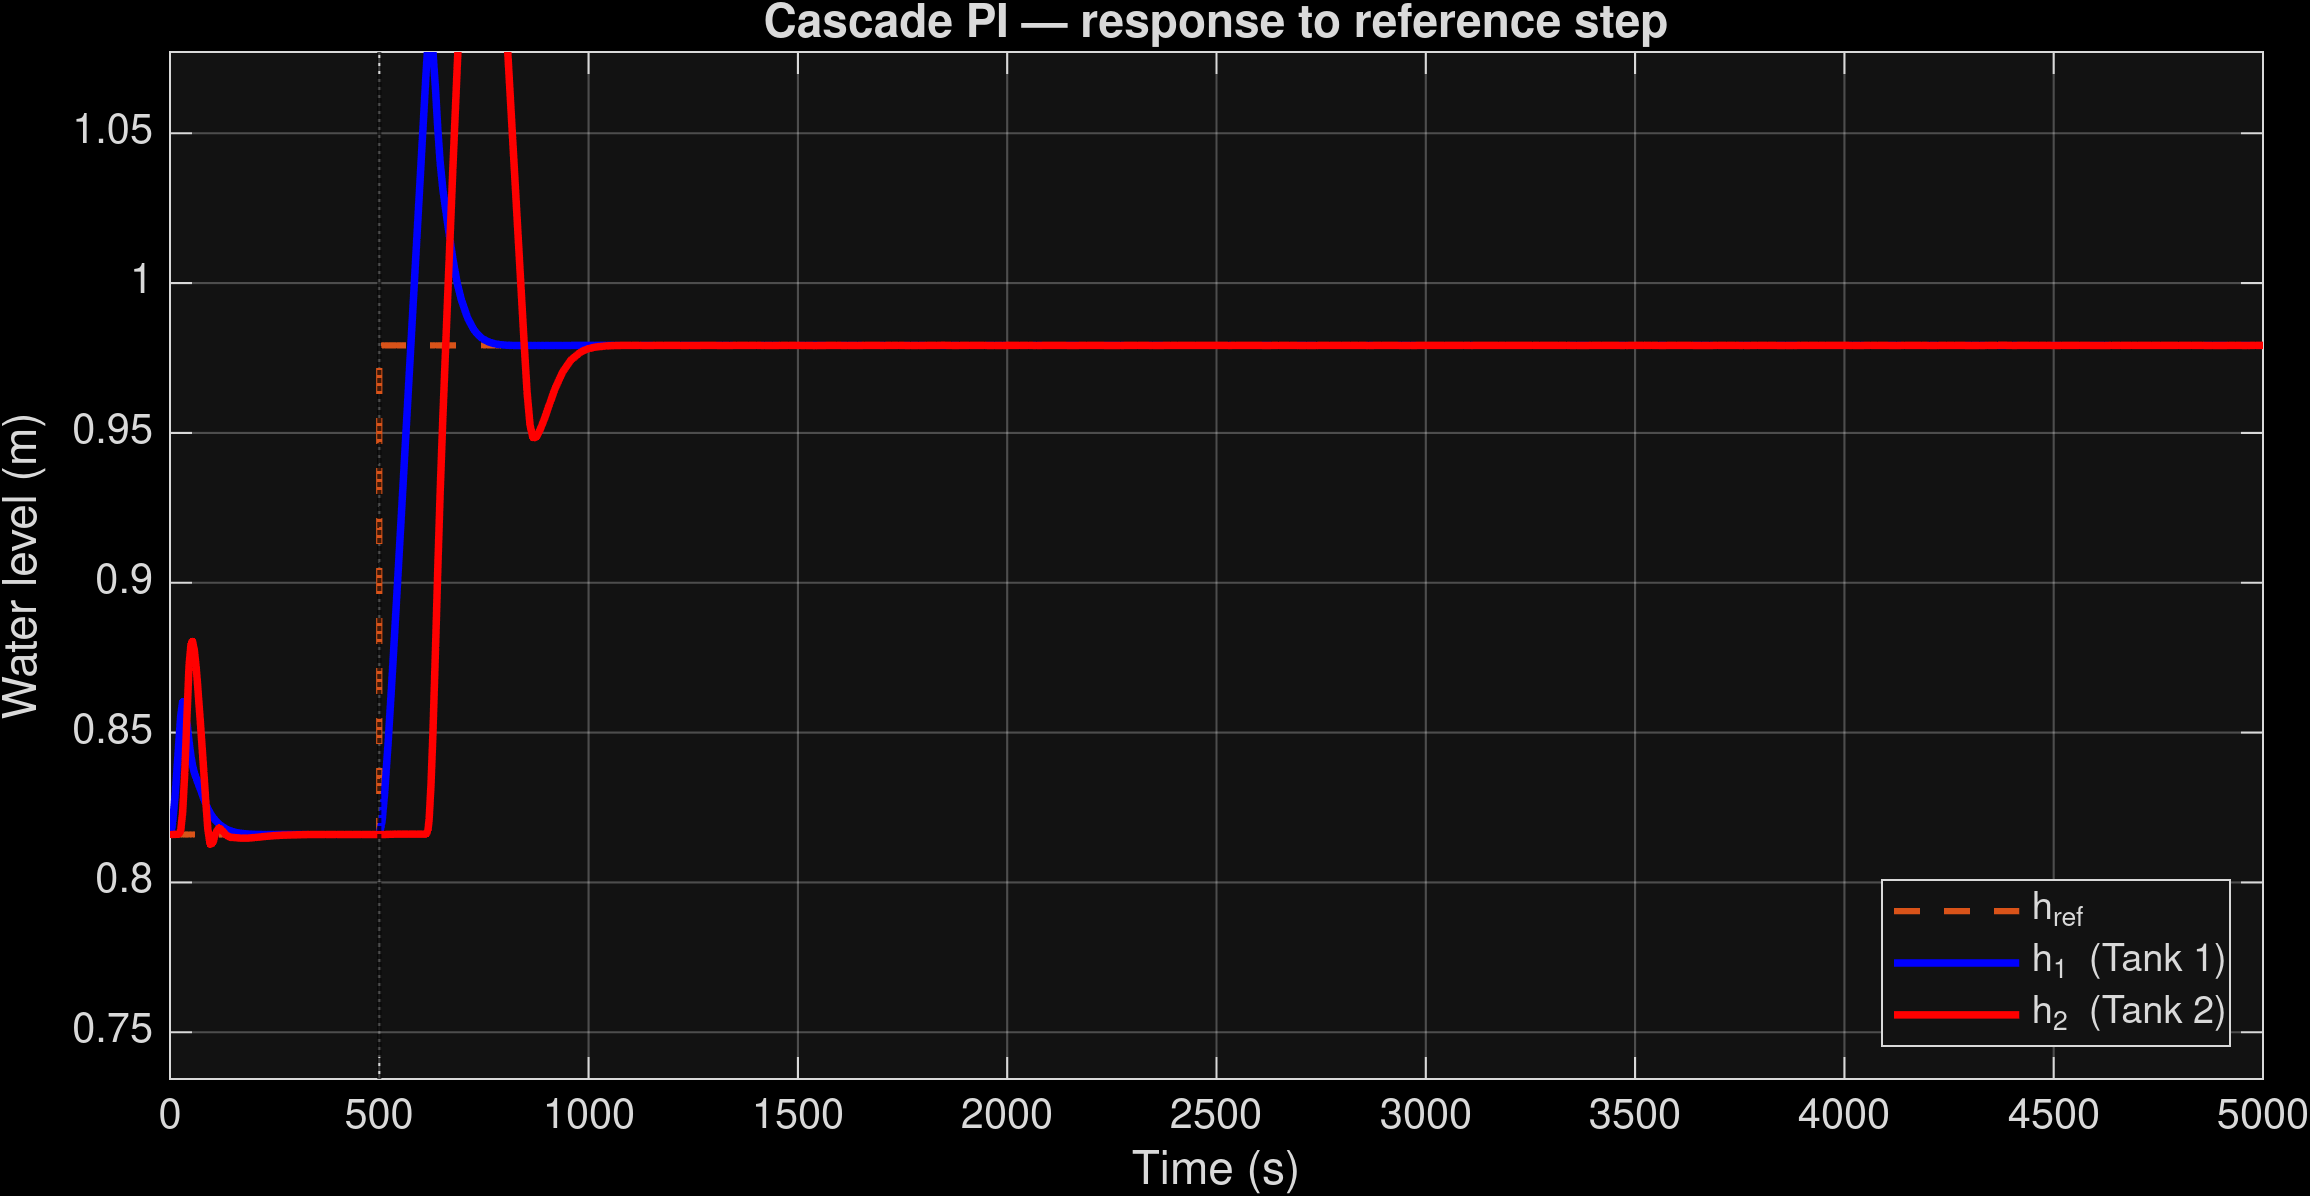
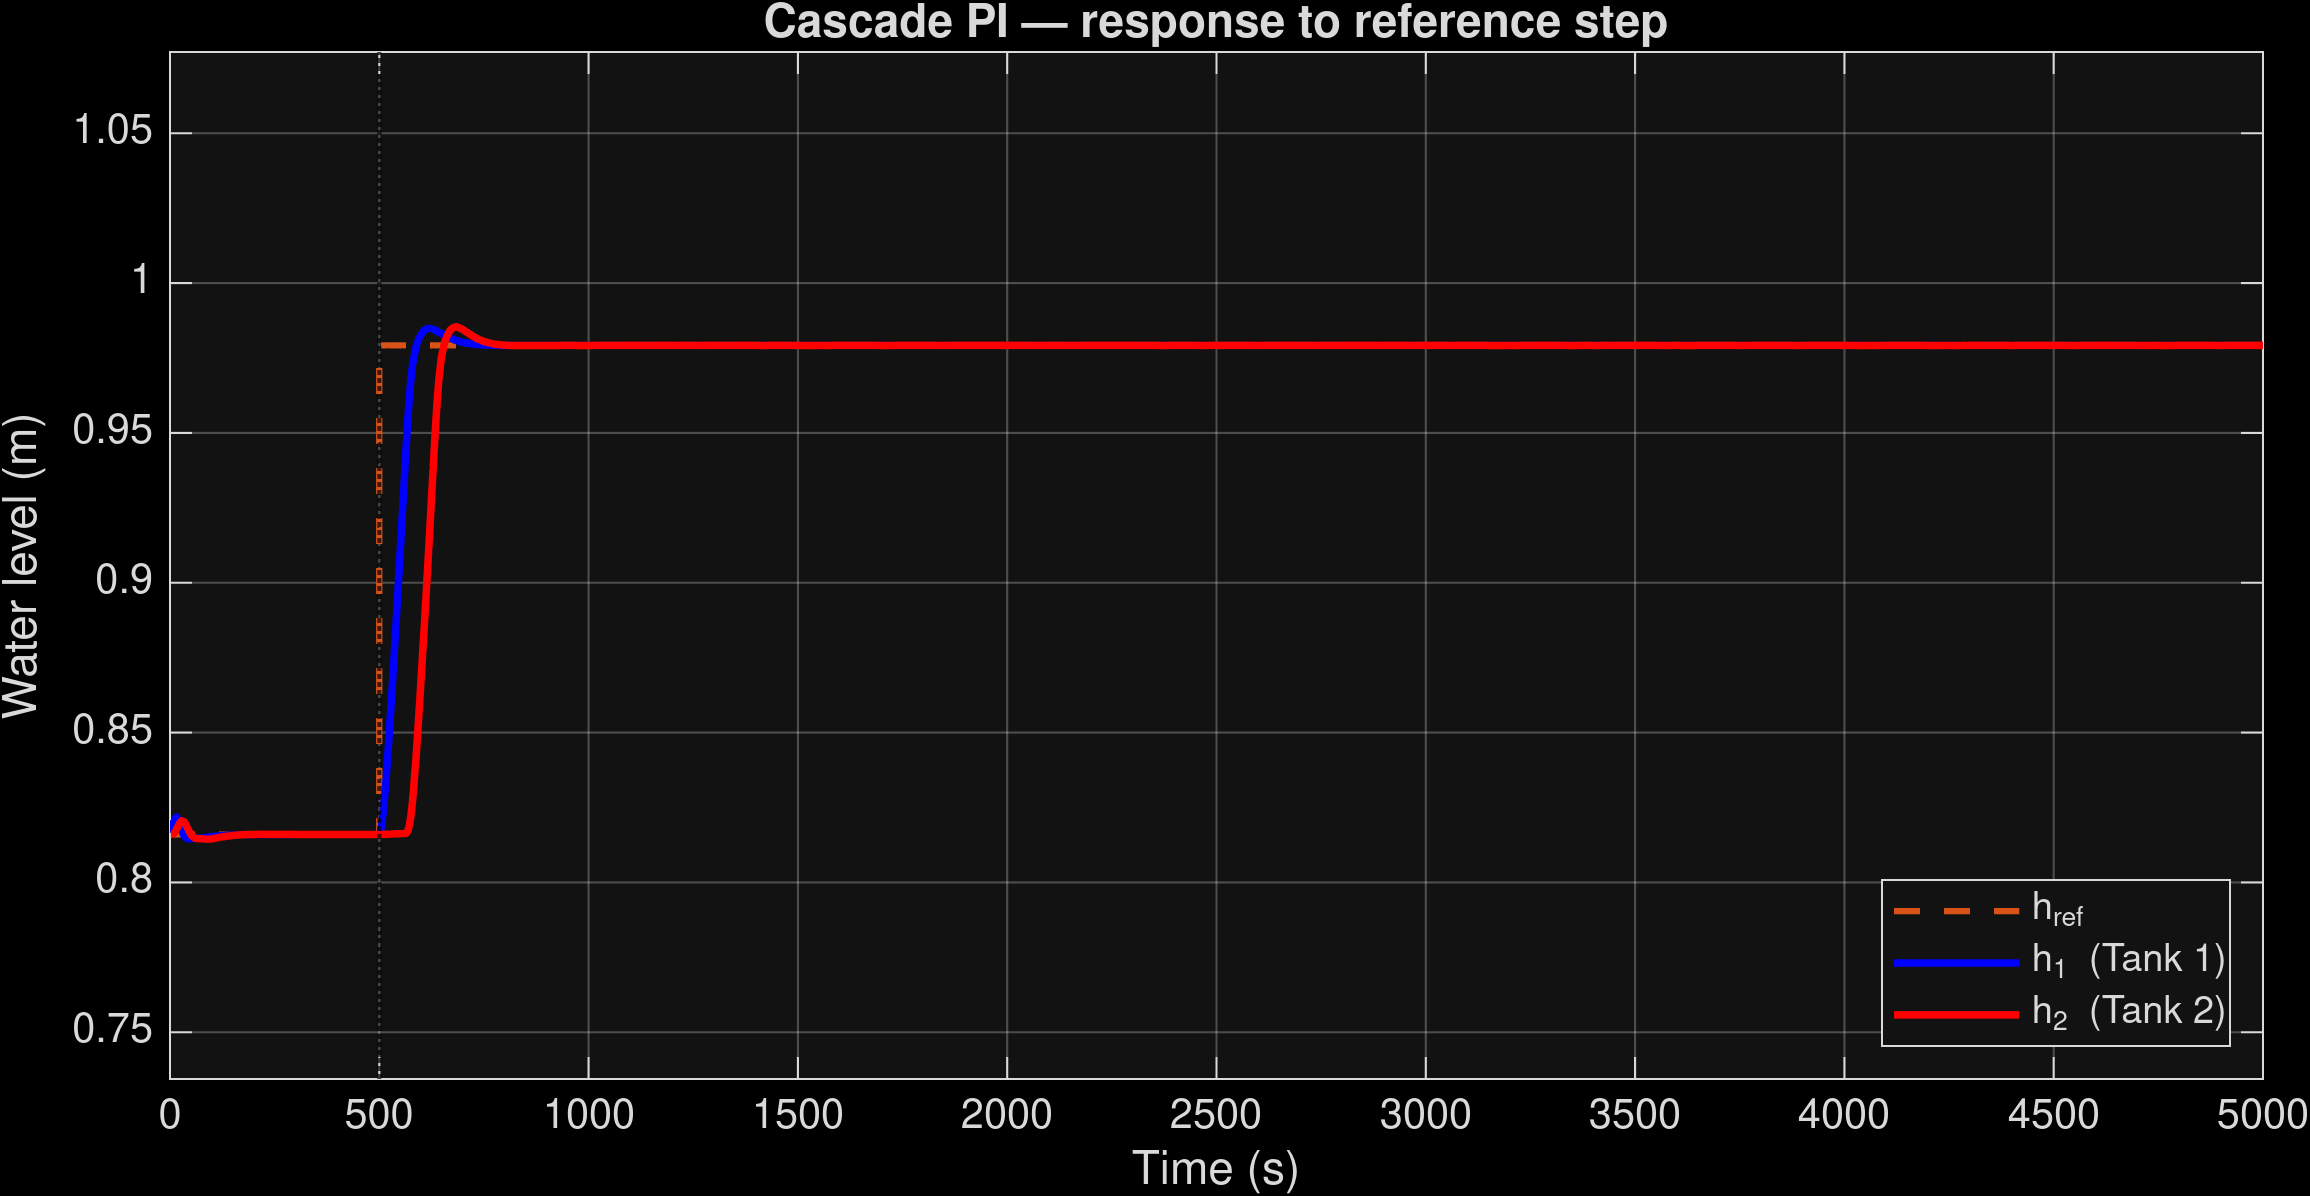
add wind-up and initial conditions to PI regulator to reduce initial spike

Changed region(s): [[0.1558, 0.0309, 0.2805, 0.7115], [0.0623, 0.5259, 0.1247, 0.7115]]

diff --git a/task_4/add_cascade.m b/task_4/add_cascade.m
@@ -193,6 +193,8 @@ set_param([mdl '/MasterPI1'],                               ...
 'Controller',                   'PI',                   ...
 'P',                            num2str(Kp_m),          ...
 'I',                            num2str(Ki_m),          ...
+'AntiWindupMode',               'clamping',             ...
+'InitialConditionForIntegrator',num2str(Q_ss),                    ...
 'LimitOutput',                  'on',                   ...
 'UpperSaturationLimit',         num2str(2 * Q_ss),      ...  % max Q12_ref
 'LowerSaturationLimit',         '0');
@@ -208,6 +210,8 @@ set_param([mdl '/SlavePI1'],                                 ...
 'Controller',                   'PI',                    ...
 'P',                            num2str(Kp_s),           ...
 'I',                            num2str(Ki_s),           ...
+'AntiWindupMode',               'clamping',              ...
+'InitialConditionForIntegrator',num2str(z_ss / Ki_s),    ...
 'LimitOutput',                  'on',                    ...
 'UpperSaturationLimit',         '1',                     ...  % max valve position
 'LowerSaturationLimit',         '0');
@@ -236,6 +240,8 @@ set_param([mdl '/MasterPI2'],                                ...
 'Controller',                   'PI',                    ...
 'P',                            num2str(Kp_m),           ...
 'I',                            num2str(Ki_m),           ...
+'AntiWindupMode',               'clamping',              ...
+'InitialConditionForIntegrator',num2str(Q_ss),           ...
 'LimitOutput',                  'on',                    ...
 'UpperSaturationLimit',         num2str(2 * Q_ss),       ...
 'LowerSaturationLimit',         '0');
@@ -245,10 +251,12 @@ add_block('simulink/Math Operations/Sum', [mdl '/SlaveErr2']);
 set_param([mdl '/SlaveErr2'], 'Inputs', '+-');
 
 add_block('simulink/Continuous/PID Controller', [mdl '/SlavePI2']);
-set_param([mdl '/SlavePI2'],                                 ...
+set_param([mdl '/SlavePI2'],                             ...
 'Controller',                   'PI',                    ...
 'P',                            num2str(Kp_s),           ...
 'I',                            num2str(Ki_s),           ...
+'AntiWindupMode',               'clamping',              ...
+'InitialConditionForIntegrator',num2str(z_ss / Ki_s),    ...
 'LimitOutput',                  'on',                    ...
 'UpperSaturationLimit',         '1',                     ...
 'LowerSaturationLimit',         '0');
@@ -263,4 +271,5 @@ add_line(mdl, 'SlaveErr2/1', 'SlavePI2/1',   'autorouting', 'on');
 add_line(mdl, 'SlavePI2/1',  'Valve2/1',     'autorouting', 'on');
 
 save_system(mdl);
+close_system(mdl);
 disp('Cascade PI control added and model saved.');

diff --git a/task_4/run_cascade.m b/task_4/run_cascade.m
@@ -20,7 +20,9 @@ set_param([mdl '/h_ref'], ...
 
 set_param(mdl, 'StopTime', num2str(T_stop));
 
+
 %% Run simulation
+set_param(mdl, 'ZeroCrossAlgorithm', 'Adaptive');
 simOut = sim(mdl);
 
 t    = simOut.tout;
